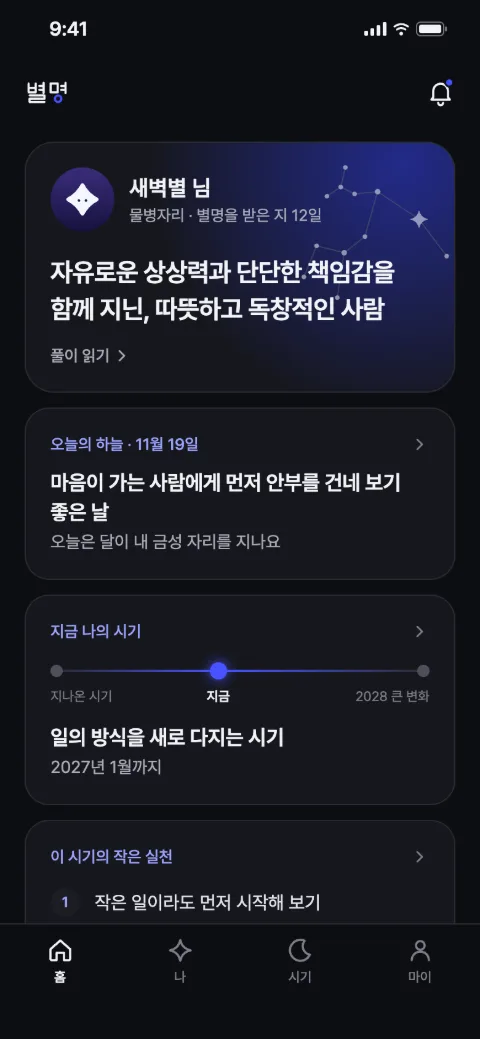
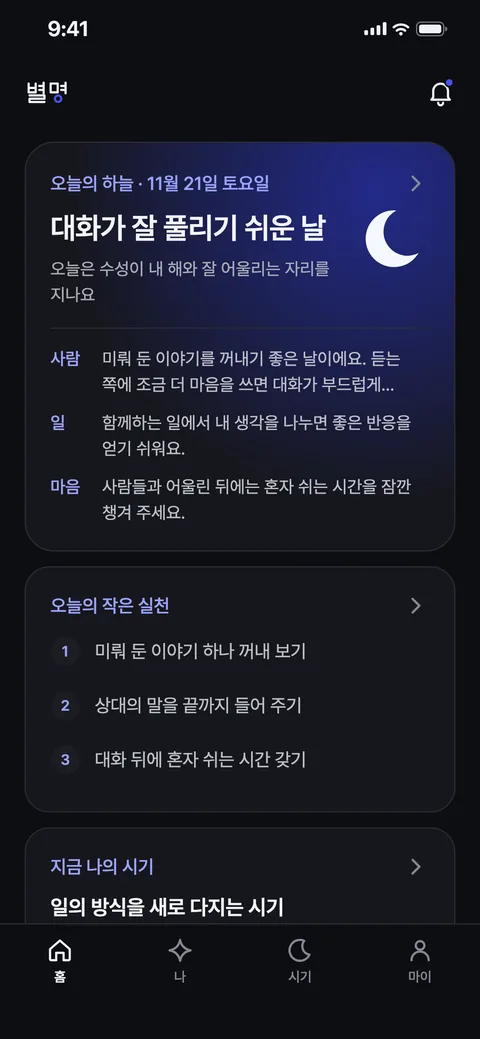
feat(landing): 첫 화면과 주요 기능의 폰 화면 그림을 새 앱 디자인으로 바꾼다
소유자 2026-11-26 "랜딩도 같이 수정해야지". 스토어 미리보기(PR #10)와 같은 원본에서 그린 화면이다.
- home: 홈 A안 "오늘을 크게"(결정 092). 오늘의 하늘 큰 카드, 오늘의 작은 실천, 지금 나의 시기 한 줄
- today-sky: 오늘의 하늘(캔버스 11-4, 글자 v2)
- me-personality: 나 탭 성격(캔버스 12-8)
- sky-map: 내 하늘 지도(캔버스 13)
- my-nickname: 내 별명(캔버스 근거 A안, 글자 v2. 제목은 앱처럼 낱말 단위로 줄바꿈)
- 같은 이름, 같은 크기(780 폭과 480 폭), WebP 품질 82
- reveal, timing-year, birth, share-nickname 은 지금 보드와 거의 같아 그대로 둔다
- 첫 화면 홈 그림의 대체 글을 새 홈 순서에 맞춘다

diff --git a/app/components/landing/HeroSection.vue b/app/components/landing/HeroSection.vue
@@ -12,7 +12,7 @@
       </div>
       <div class="hero-art">
         <PhoneFrame class="p1" src="/screens/reveal.webp" alt="별명 공개 화면: 새벽별 님의 별명은 자유로운 상상력과 단단한 책임감을 함께 지닌, 따뜻하고 독창적인 사람" priority />
-        <PhoneFrame class="p2" src="/screens/home.webp" alt="홈 화면: 내 별명 카드, 오늘의 하늘, 지금 나의 시기, 이 시기의 작은 실천" priority />
+        <PhoneFrame class="p2" src="/screens/home.webp" alt="홈 화면: 맨 위 오늘의 하늘 카드와 사람, 일, 마음의 흐름, 그 아래 오늘의 작은 실천과 지금 나의 시기" priority />
       </div>
     </div>
   </section>
